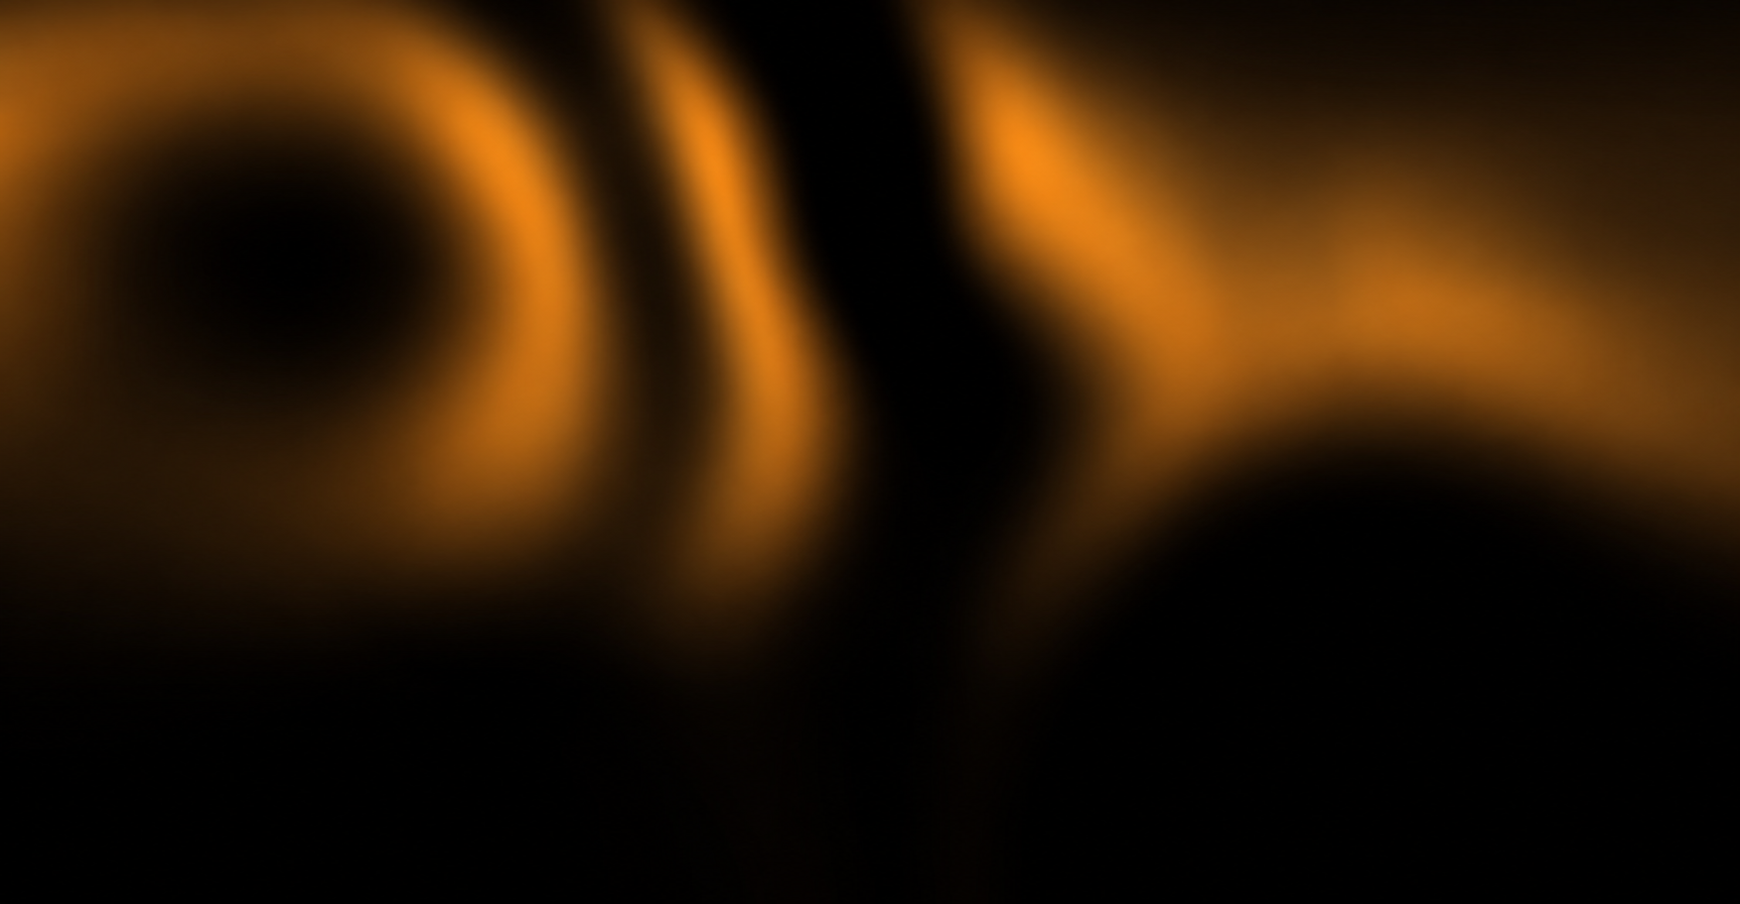
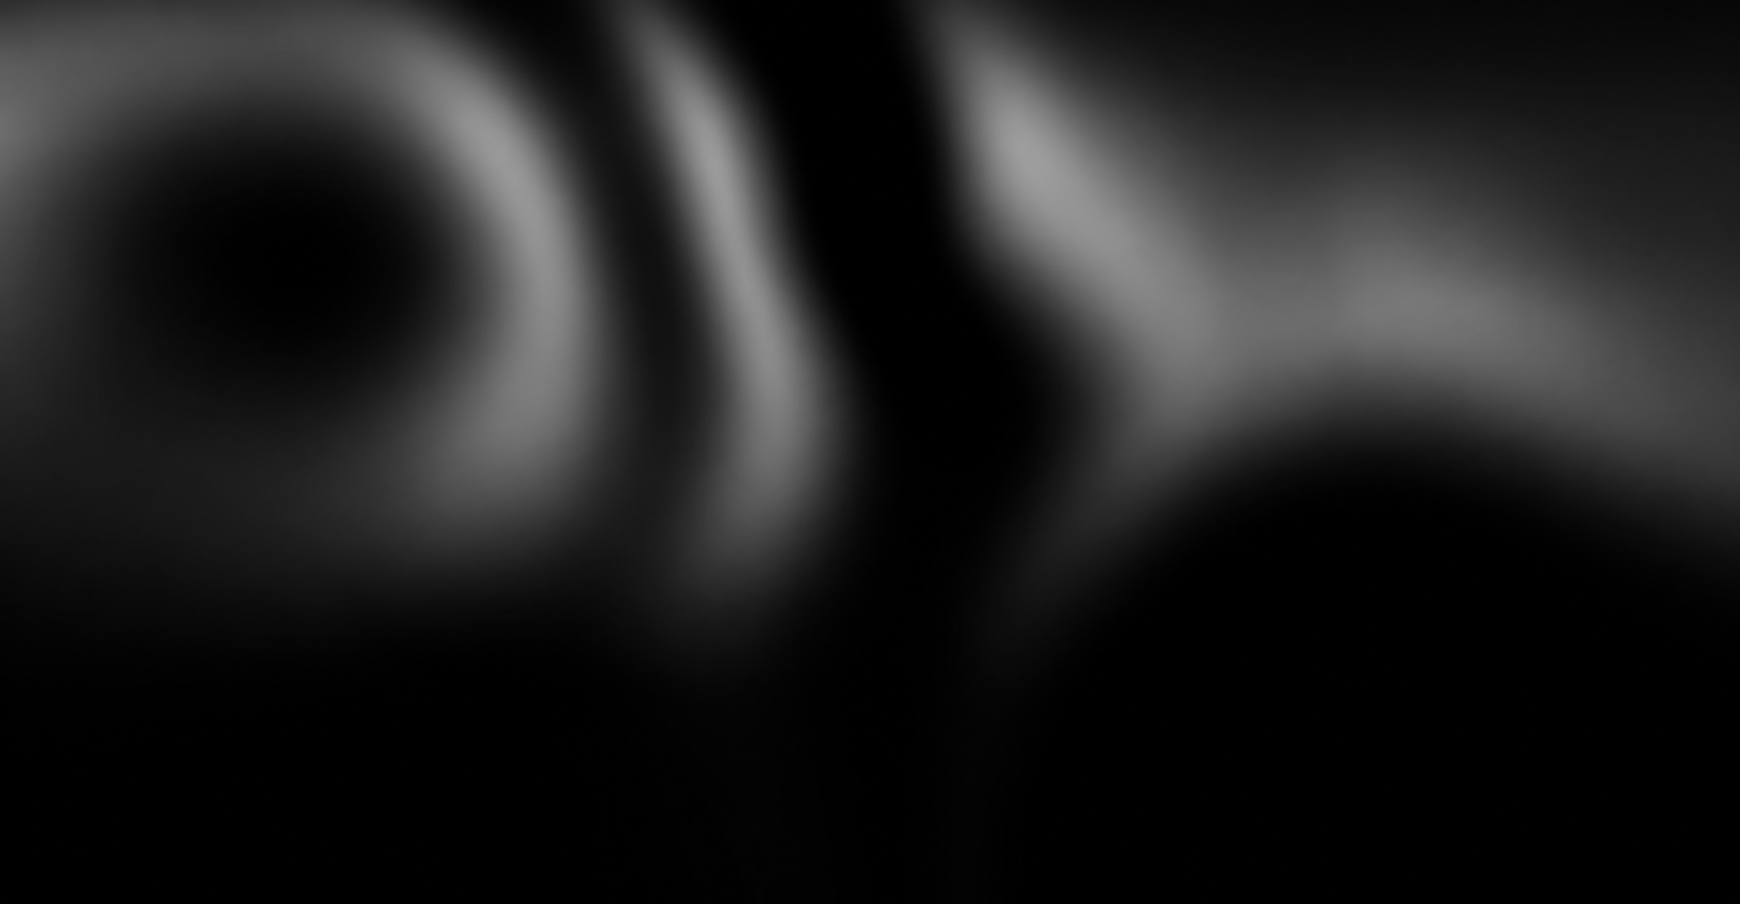
Add files via upload

diff --git a/style.css b/style.css
@@ -1,1 +1,258 @@
-* { font-family: system-ui, -apple-system, BlinkMacSystemFont, 'Segoe UI', Roboto, Oxygen, Ubuntu, Cantarell, 'Open Sans', 'Helvetica Neue', sans-serif; font-weight: bold !important}#play-now,#play-now2,.name,.name2 { text-align: center}#x-o,.body { overflow: hidden; font-weight: bold !important}.scale,.vo { transform: scale(1.2, 1.2)}.body { position: relative; margin: 0; padding: 0;background-image: linear-gradient(#00000096),url(./background.png); background-position: center; background-repeat: no-repeat; background-size: cover; width: 100%; height: 100vh}.but,.but2,.start { color: #000; padding: 8px 10px; width: 100px; background: linear-gradient(to right, #ff0000, #fdcf58); cursor: pointer}.game,.game2 { margin-top: 300px}#play-now,#play-now2 { display: none; width: 180px; height: 20px; margin: 300px auto auto; padding: 4px; color: #c5c0c0}#playerone,#playertwo { border: none; width: 250px; background-color: rgb(71 68 68 / .5); color: #fff; padding: 10px; border-radius: 20px; text-transform: capitalize}#playerone::placeholder,#playertwo::placeholder { color: #fff}#playerone:focus,#playertwo:focus { outline: 0}.but,.but2 { margin-top: 20px; border: none; border-radius: 20px; color: #fff}.start { margin-top: 30px; border: none; border-radius: 20px; color: #fff}.start:hover { -webkit-text-fill-color: #fff0; background: linear-gradient(to right, #ff0000, #fdcf58) text; border: 1px solid #444}.but2:hover,.but:hover { -webkit-text-fill-color: #fff0; background: linear-gradient(to right, #ff0000, #fdcf58) text; border: 1px solid #444}.name,.name2 { position: absolute; top: -90px; color: #eee; font-size: 20px}.pos1,.pos2 { top: 50px; margin-top: 0; transition: 2s; position: absolute}.game3,.gameid { text-align: center; color: #fff; font-weight: 500}.pos1 { left: 100px}.pos2 { right: 100px; color: #fff}.game3 { width: 255px; margin: 150px auto}.hidename { margin-left: -1100px; transition: 2s}.hidename2 { margin-right: -1100px; transition: 2s}.showname1 { margin-left: 1100px; transition: 2s}.showname2 { margin-right: 1100px; transition: 2s}.cir { background-color: teal; width: 10px; border-radius: 50%; height: 10px; position: absolute; top: 100px; z-index: 100; left: 150px}.vo { background-color: #000; transition: 3s}#x-o { width: 25%; height: 345px; background: linear-gradient(to right, #ff0000, #fdcf58); border: 1px solid red; position: absolute; left: 50%; top: 215px; margin-left: -12.5%; display: none}.gameid { width: 100%; height: 200px; padding-top: 1px}.title,.titlestart { background-color: #fff0; padding: 5px 0; position: absolute; left: 50%; margin-left: -125px; width: 250px; text-align: center; color: #fff}.title { top: 240px; font-size: 50px}.titlestart { top: 20px; font-size: 30px; transition: 3s}.square,.square:hover { background-color: #000}span { -webkit-text-fill-color: #fff0; background: linear-gradient(to right, #ff0000, #fdcf58) text; font-size: 35px}.square { width: 33.3%; height: 90px; box-shadow: 1px 1px 4px #383834; margin: auto; font-size: 40px; text-align: center; padding-top: 28px; color: #fff; float: left}.back { background-color: rgb(0 0 0 / .8)}.square:hover { cursor: pointer}.erro,.erro2 { font-family: system-ui, -apple-system, BlinkMacSystemFont, 'Segoe UI', Roboto, Oxygen, Ubuntu, Cantarell, 'Open Sans', 'Helvetica Neue', sans-serif}
+* {
+  font-family: system-ui, -apple-system, BlinkMacSystemFont, 'Segoe UI', Roboto, Oxygen, Ubuntu, Cantarell, 'Open Sans', 'Helvetica Neue', sans-serif;
+  font-weight: bold !important
+}
+
+#play-now,
+#play-now2,
+.name,
+.name2 {
+  text-align: center
+}
+
+#x-o,
+.body {
+  overflow: hidden;
+  font-weight: bold !important
+}
+
+.scale,
+.vo {
+  transform: scale(1.2, 1.2)
+}
+
+.body {
+  position: relative;
+  margin: 0;
+  padding: 0;
+  background-image: linear-gradient(#00000059), url(./background.png);
+  background-position: center;
+  background-repeat: no-repeat;
+  background-size: cover;
+  width: 100%;
+  height: 100vh
+}
+
+.but,
+.but2,
+.start {
+  color: #000;
+  padding: 8px 10px;
+  width: 100px;
+  background: linear-gradient(to right, #ff0000, #fdcf58);
+  cursor: pointer
+}
+
+.game,
+.game2 {
+  margin-top: 300px
+}
+
+#play-now,
+#play-now2 {
+  display: none;
+  width: 180px;
+  height: 20px;
+  margin: 300px auto auto;
+  padding: 4px;
+  color: #c5c0c0
+}
+
+#playerone,
+#playertwo {
+  border: none;
+  width: 250px;
+  background-color: rgb(71 68 68 / .5);
+  color: #fff;
+  padding: 10px;
+  border-radius: 20px;
+  text-transform: capitalize
+}
+
+#playerone::placeholder,
+#playertwo::placeholder {
+  color: #fff
+}
+
+#playerone:focus,
+#playertwo:focus {
+  outline: 0
+}
+
+.but,
+.but2 {
+  margin-top: 20px;
+  border: none;
+  border-radius: 20px;
+  color: #fff
+}
+
+.start {
+  margin-top: 30px;
+  border: none;
+  border-radius: 20px;
+  color: #fff
+}
+
+.start:hover {
+  -webkit-text-fill-color: #fff0;
+  background: linear-gradient(to right, #ff0000, #fdcf58) text;
+  border: 1px solid #444
+}
+
+.but2:hover,
+.but:hover {
+  -webkit-text-fill-color: #fff0;
+  background: linear-gradient(to right, #ff0000, #fdcf58) text;
+  border: 1px solid #444
+}
+
+.name,
+.name2 {
+  position: absolute;
+  top: -90px;
+  color: #eee;
+  font-size: 20px
+}
+
+.pos1,
+.pos2 {
+  top: 50px;
+  margin-top: 0;
+  transition: 2s;
+  position: absolute
+}
+
+.game3,
+.gameid {
+  text-align: center;
+  color: #fff;
+  font-weight: 500
+}
+
+.pos1 {
+  left: 100px
+}
+
+.pos2 {
+  right: 100px;
+  color: #fff
+}
+
+.game3 {
+  width: 255px;
+  margin: 150px auto
+}
+
+.hidename {
+  margin-left: -1100px;
+  transition: 2s
+}
+
+.hidename2 {
+  margin-right: -1100px;
+  transition: 2s
+}
+
+.showname1 {
+  margin-left: 1100px;
+  transition: 2s
+}
+
+.showname2 {
+  margin-right: 1100px;
+  transition: 2s
+}
+
+.cir {
+  background-color: teal;
+  width: 10px;
+  border-radius: 50%;
+  height: 10px;
+  position: absolute;
+  top: 100px;
+  z-index: 100;
+  left: 150px
+}
+
+.vo {
+  background-color: #000;
+  transition: 3s
+}
+
+#x-o {
+  width: 25%;
+  height: 345px;
+  background: linear-gradient(to right, #ff0000, #fdcf58);
+  border: 1px solid red;
+  position: absolute;
+  left: 50%;
+  top: 215px;
+  margin-left: -12.5%;
+  display: none
+}
+
+.gameid {
+  width: 100%;
+  height: 200px;
+  padding-top: 1px
+}
+
+.title,
+.titlestart {
+  background-color: #fff0;
+  padding: 5px 0;
+  position: absolute;
+  left: 50%;
+  margin-left: -125px;
+  width: 250px;
+  text-align: center;
+  color: #fff
+}
+
+.title {
+  top: 240px;
+  font-size: 50px
+}
+
+.titlestart {
+  top: 20px;
+  font-size: 30px;
+  transition: 3s
+}
+
+.square,
+.square:hover {
+  background-color: #000
+}
+
+span {
+  -webkit-text-fill-color: #fff0;
+  background: linear-gradient(to right, #ff0000, #fdcf58) text;
+  font-size: 35px
+}
+
+.square {
+  width: 33.3%;
+  height: 90px;
+  box-shadow: 1px 1px 4px #383834;
+  margin: auto;
+  font-size: 40px;
+  text-align: center;
+  padding-top: 28px;
+  color: #fff;
+  float: left
+}
+
+.back {
+  background-color: rgb(0 0 0 / .8)
+}
+
+.square:hover {
+  cursor: pointer
+}
+
+.erro,
+.erro2 {
+  font-family: system-ui, -apple-system, BlinkMacSystemFont, 'Segoe UI', Roboto, Oxygen, Ubuntu, Cantarell, 'Open Sans', 'Helvetica Neue', sans-serif
+}

diff --git a/index.html b/index.html
@@ -8,8 +8,12 @@
 
   gtag('config', 'G-5KRB6LLHKJ');
 </script>
-</head><body class="body"> <div style="text-align: center;position: absolute;top: 350px;left: 50%;margin-left: -50px;"> <button class="start" onclick="startplay()" id="butstart">START</button> </div><div style="position:absolute;left:0px;background-color:rgba(0, 0, 0, 0.5);width:400px;height:100vh;display: none;" id="p1"> <div class="game" style="text-align: center;"> <input type="text" id="playerone" placeholder="Player One ..."/><br><button class="but">Enter</button> <p class="erro"></p></div><div> <h3 id="play-now"> Play Now <i class="las la-angle-double-right" style="color: rgb(169, 12, 12);"></i></h3> </div><div class="name"> </div></div><div style="position:absolute;right:0px; background-color:rgba(0, 0, 0, 0.5);width:400px;height:100vh;display: none;" id="p2"> <div class="game2" style="text-align: center;"> <input type="text" id="playertwo" placeholder="Player Two ..."/><br><button class="but2" disabled>Enter</button> <p class="erro2"></p></div><div> <h3 id="play-now2"><i class="las la-angle-double-left" style="color: rgb(169, 12, 12);"></i> Play Now </h3> </div><div class="name2"> </div></div><div class="title"><span > X - O </span><br>GAME</div><div id="x-o"> <span style="width: 0px;position: absolute;left: -10px;top:0px;background-color: gold;height: 3px;" class="top"></span> <span style="width: 3px;position: absolute;top: -10px;background-color: gold;height: 0px;" class="right"></span> <span style="width: 3px;position: absolute;bottom: -10px;right:0px;background-color: gold;height: 0px;" class="left"></span> <span style="width: 0px;position: absolute;bottom: 0px;right: -10px;background-color: gold;height: 3px;" class="bottom"></span> <div class="gameid"> <div class="square" id="item1" onclick="gameid(this.id)"></div><div class="square" id="item2" onclick="gameid(this.id)"></div><div class="square" id="item3" onclick="gameid(this.id)"></div><div class="square" id="item4" onclick="gameid(this.id)"></div><div class="square" id="item5" onclick="gameid(this.id)"></div><div class="square" id="item6" onclick="gameid(this.id)"></div><div class="square" id="item7" onclick="gameid(this.id)"></div><div class="square" id="item8" onclick="gameid(this.id)"></div><div class="square" id="item9" onclick="gameid(this.id)"></div><p id="win" style="color: transparent;visibility:hidden;text-transform: capitalize;"></p></div><div>
- </div></div><div style="z-index: 1000000000000;position: absolute;bottom: 1px;text-align: center;width: 200px;left:50%;margin-left: -100px;">  <h6 style="color: #fff;font-family: Arial, Helvetica, sans-serif;">Created By <a href="https://abdallahweb.github.io/resume/" style="color: #fff;font-family: Arial, Helvetica, sans-serif;">Abdallah Fouad</a></h6></div>
+</head><body class="body"> 
+    <div style="text-align: center;position: absolute;top: 350px;left: 50%;margin-left: -50px;">
+         <button class="start" onclick="startplay()" id="butstart">START</button> 
+        </div><div style="position:absolute;left:0px;background-color:rgba(0, 0, 0, 0.5);backdrop-filter: blur(10px);   width:400px;height:100vh;display: none;" id="p1"> <div class="game" style="text-align: center;"> 
+    <input type="text" id="playerone" placeholder="Player One ..."/><br><button class="but">Enter</button> <p class="erro"></p></div><div> <h3 id="play-now"> Play Now <i class="las la-angle-double-right" style="color: rgb(169, 12, 12);"></i></h3> </div><div class="name"> </div></div><div style="position:absolute;right:0px; background-color:rgba(0, 0, 0, 0.5);backdrop-filter: blur(10px);width:400px;height:100vh;display: none;" id="p2"> <div class="game2" style="text-align: center;"> <input type="text" id="playertwo" placeholder="Player Two ..."/><br><button class="but2" disabled>Enter</button> <p class="erro2"></p></div><div> <h3 id="play-now2"><i class="las la-angle-double-left" style="color: rgb(169, 12, 12);"></i> Play Now </h3> </div><div class="name2"> </div></div><div class="title"><span > X - O </span><br>GAME</div><div id="x-o"> <span style="width: 0px;position: absolute;left: -10px;top:0px;background-color: gold;height: 3px;" class="top"></span> <span style="width: 3px;position: absolute;top: -10px;background-color: gold;height: 0px;" class="right"></span> <span style="width: 3px;position: absolute;bottom: -10px;right:0px;background-color: gold;height: 0px;" class="left"></span> <span style="width: 0px;position: absolute;bottom: 0px;right: -10px;background-color: gold;height: 3px;" class="bottom"></span> <div class="gameid"> <div class="square" id="item1" onclick="gameid(this.id)"></div><div class="square" id="item2" onclick="gameid(this.id)"></div><div class="square" id="item3" onclick="gameid(this.id)"></div><div class="square" id="item4" onclick="gameid(this.id)"></div><div class="square" id="item5" onclick="gameid(this.id)"></div><div class="square" id="item6" onclick="gameid(this.id)"></div><div class="square" id="item7" onclick="gameid(this.id)"></div><div class="square" id="item8" onclick="gameid(this.id)"></div><div class="square" id="item9" onclick="gameid(this.id)"></div><p id="win" style="color: transparent;visibility:hidden;text-transform: capitalize;"></p></div><div>
+ </div></div><div style="z-index: 100;position: absolute;bottom: 1px;text-align: center;width: 200px;left:50%;margin-left: -100px;">  <h6 style="color: #fff;font-family: Arial, Helvetica, sans-serif;">Created By <a href="https://abdallahweb.github.io/resume/" style="color: #fff;font-family: Arial, Helvetica, sans-serif;">Abdallah Fouad</a></h6></div>
 <script src="./query.js"></script> <script src="./logic.js"></script>
 <script src="http://ajax.googleapis.com/ajax/libs/jquery/1.10.2/jquery.min.js"></script>
 <script>